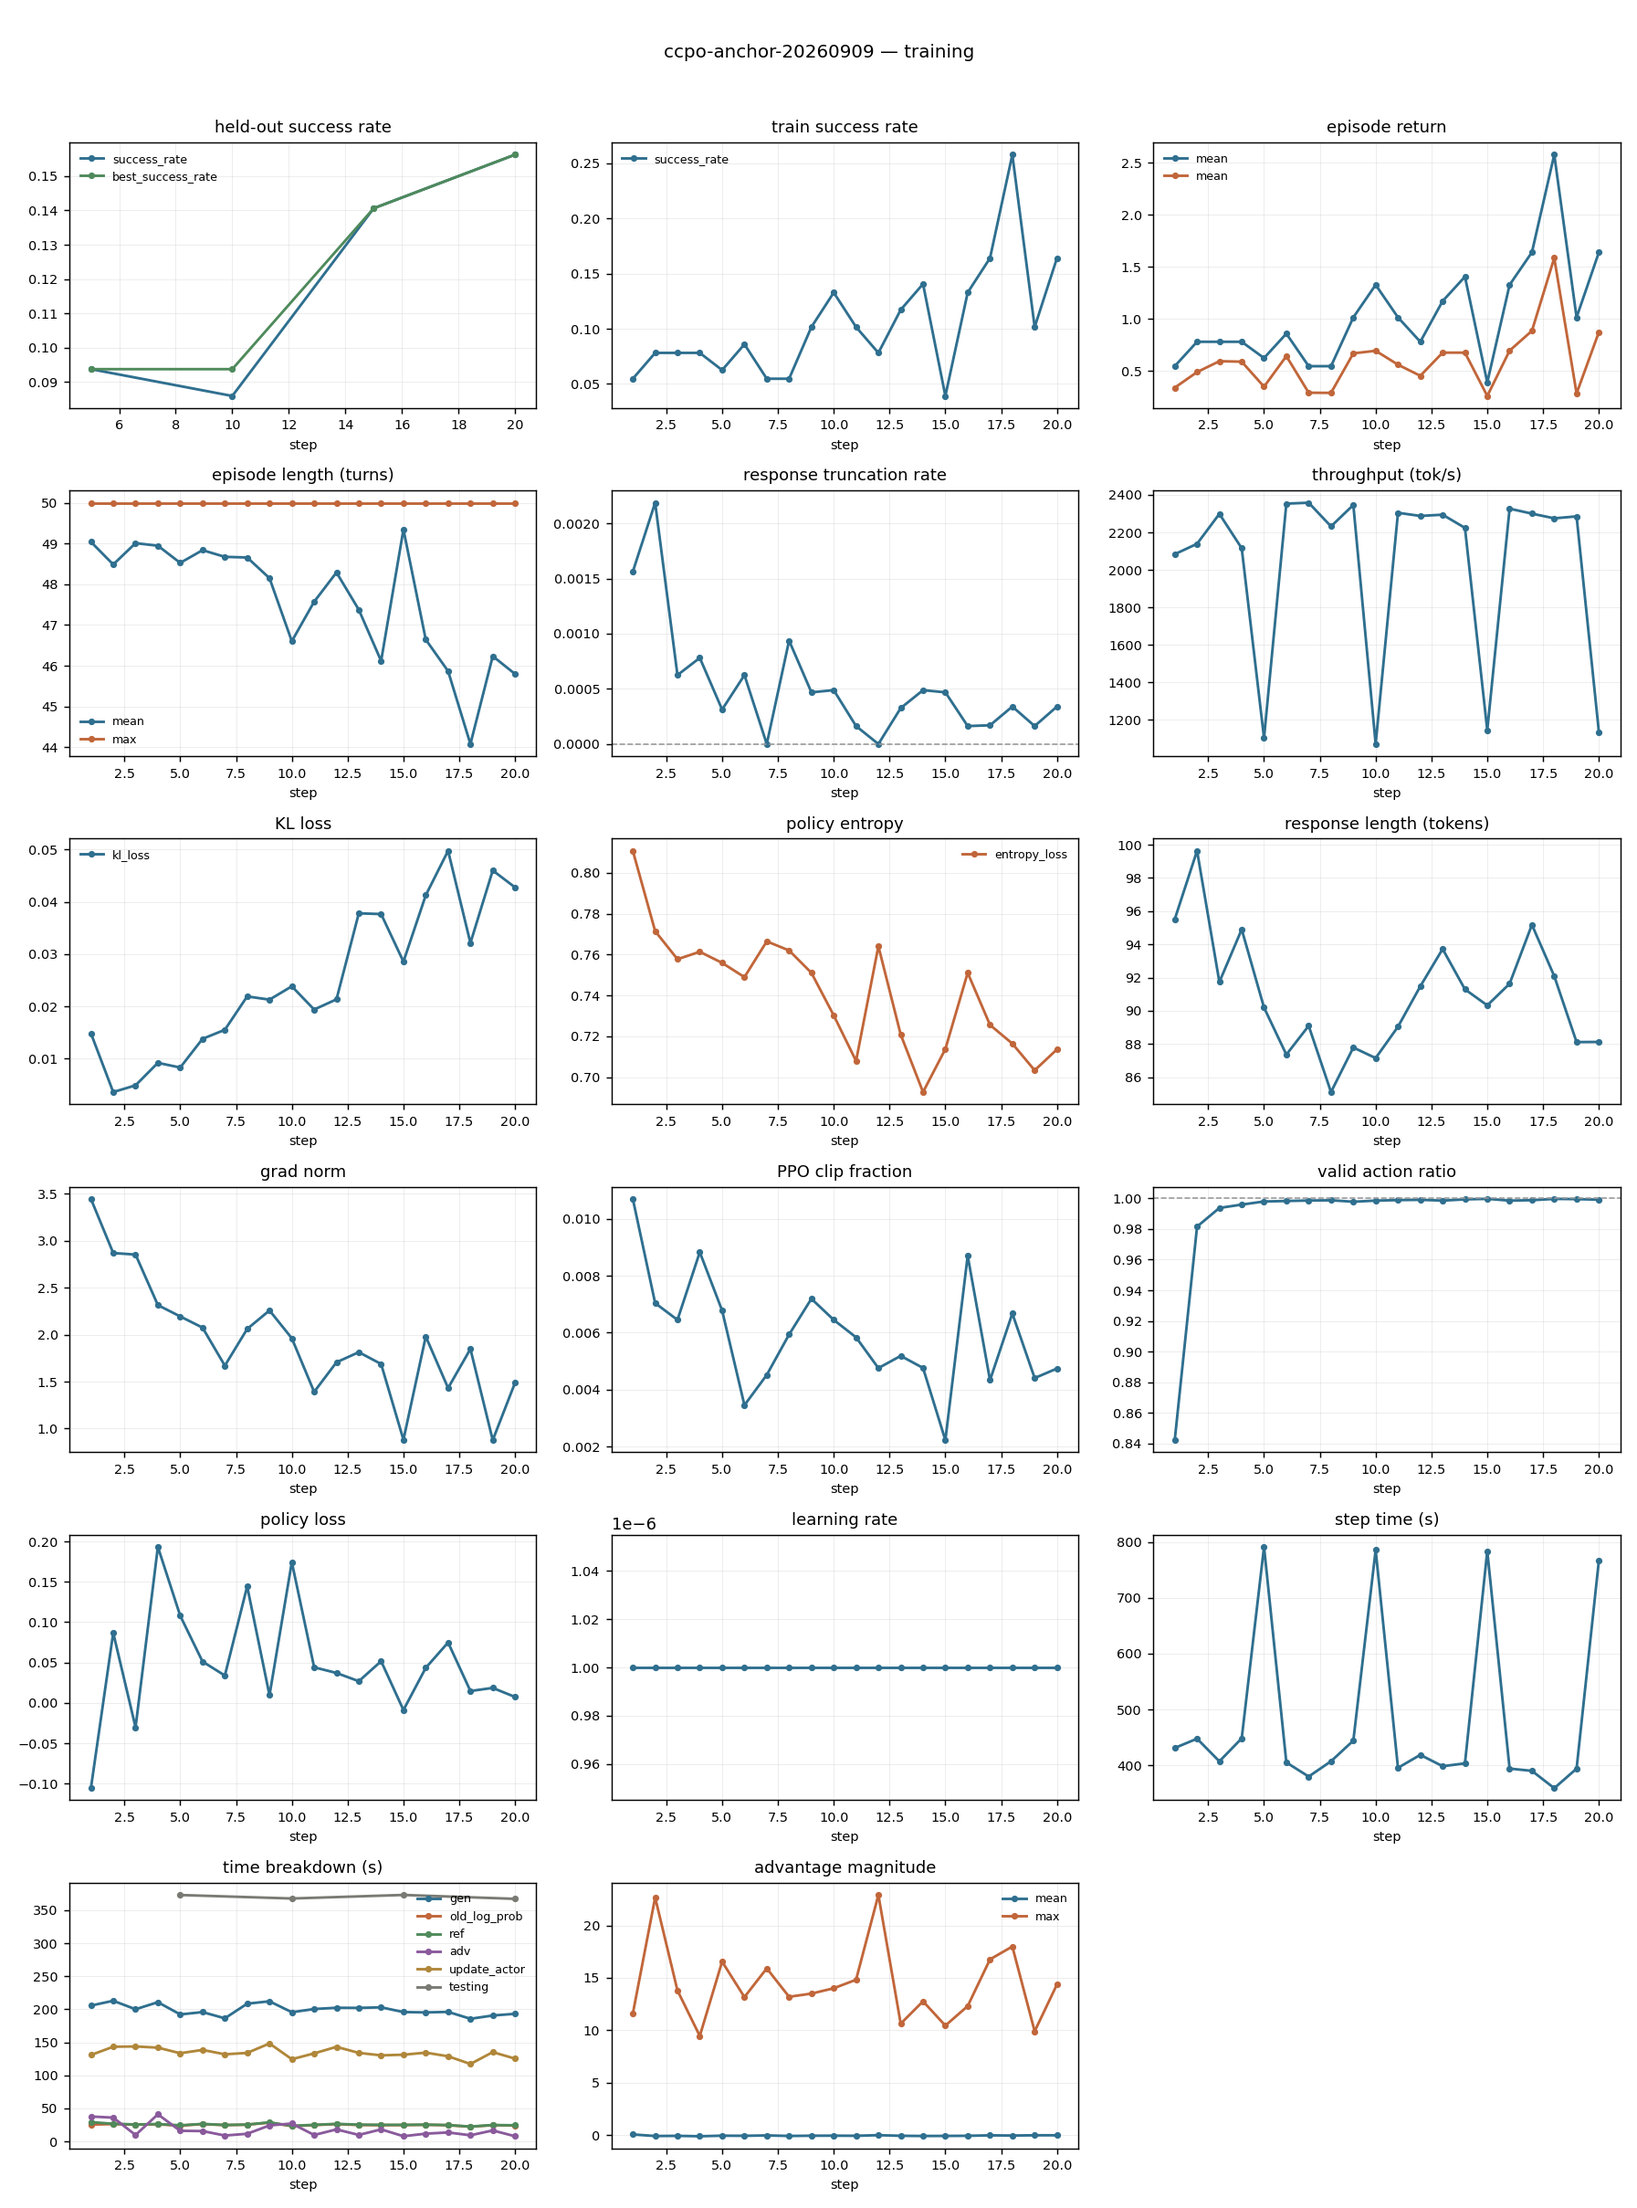
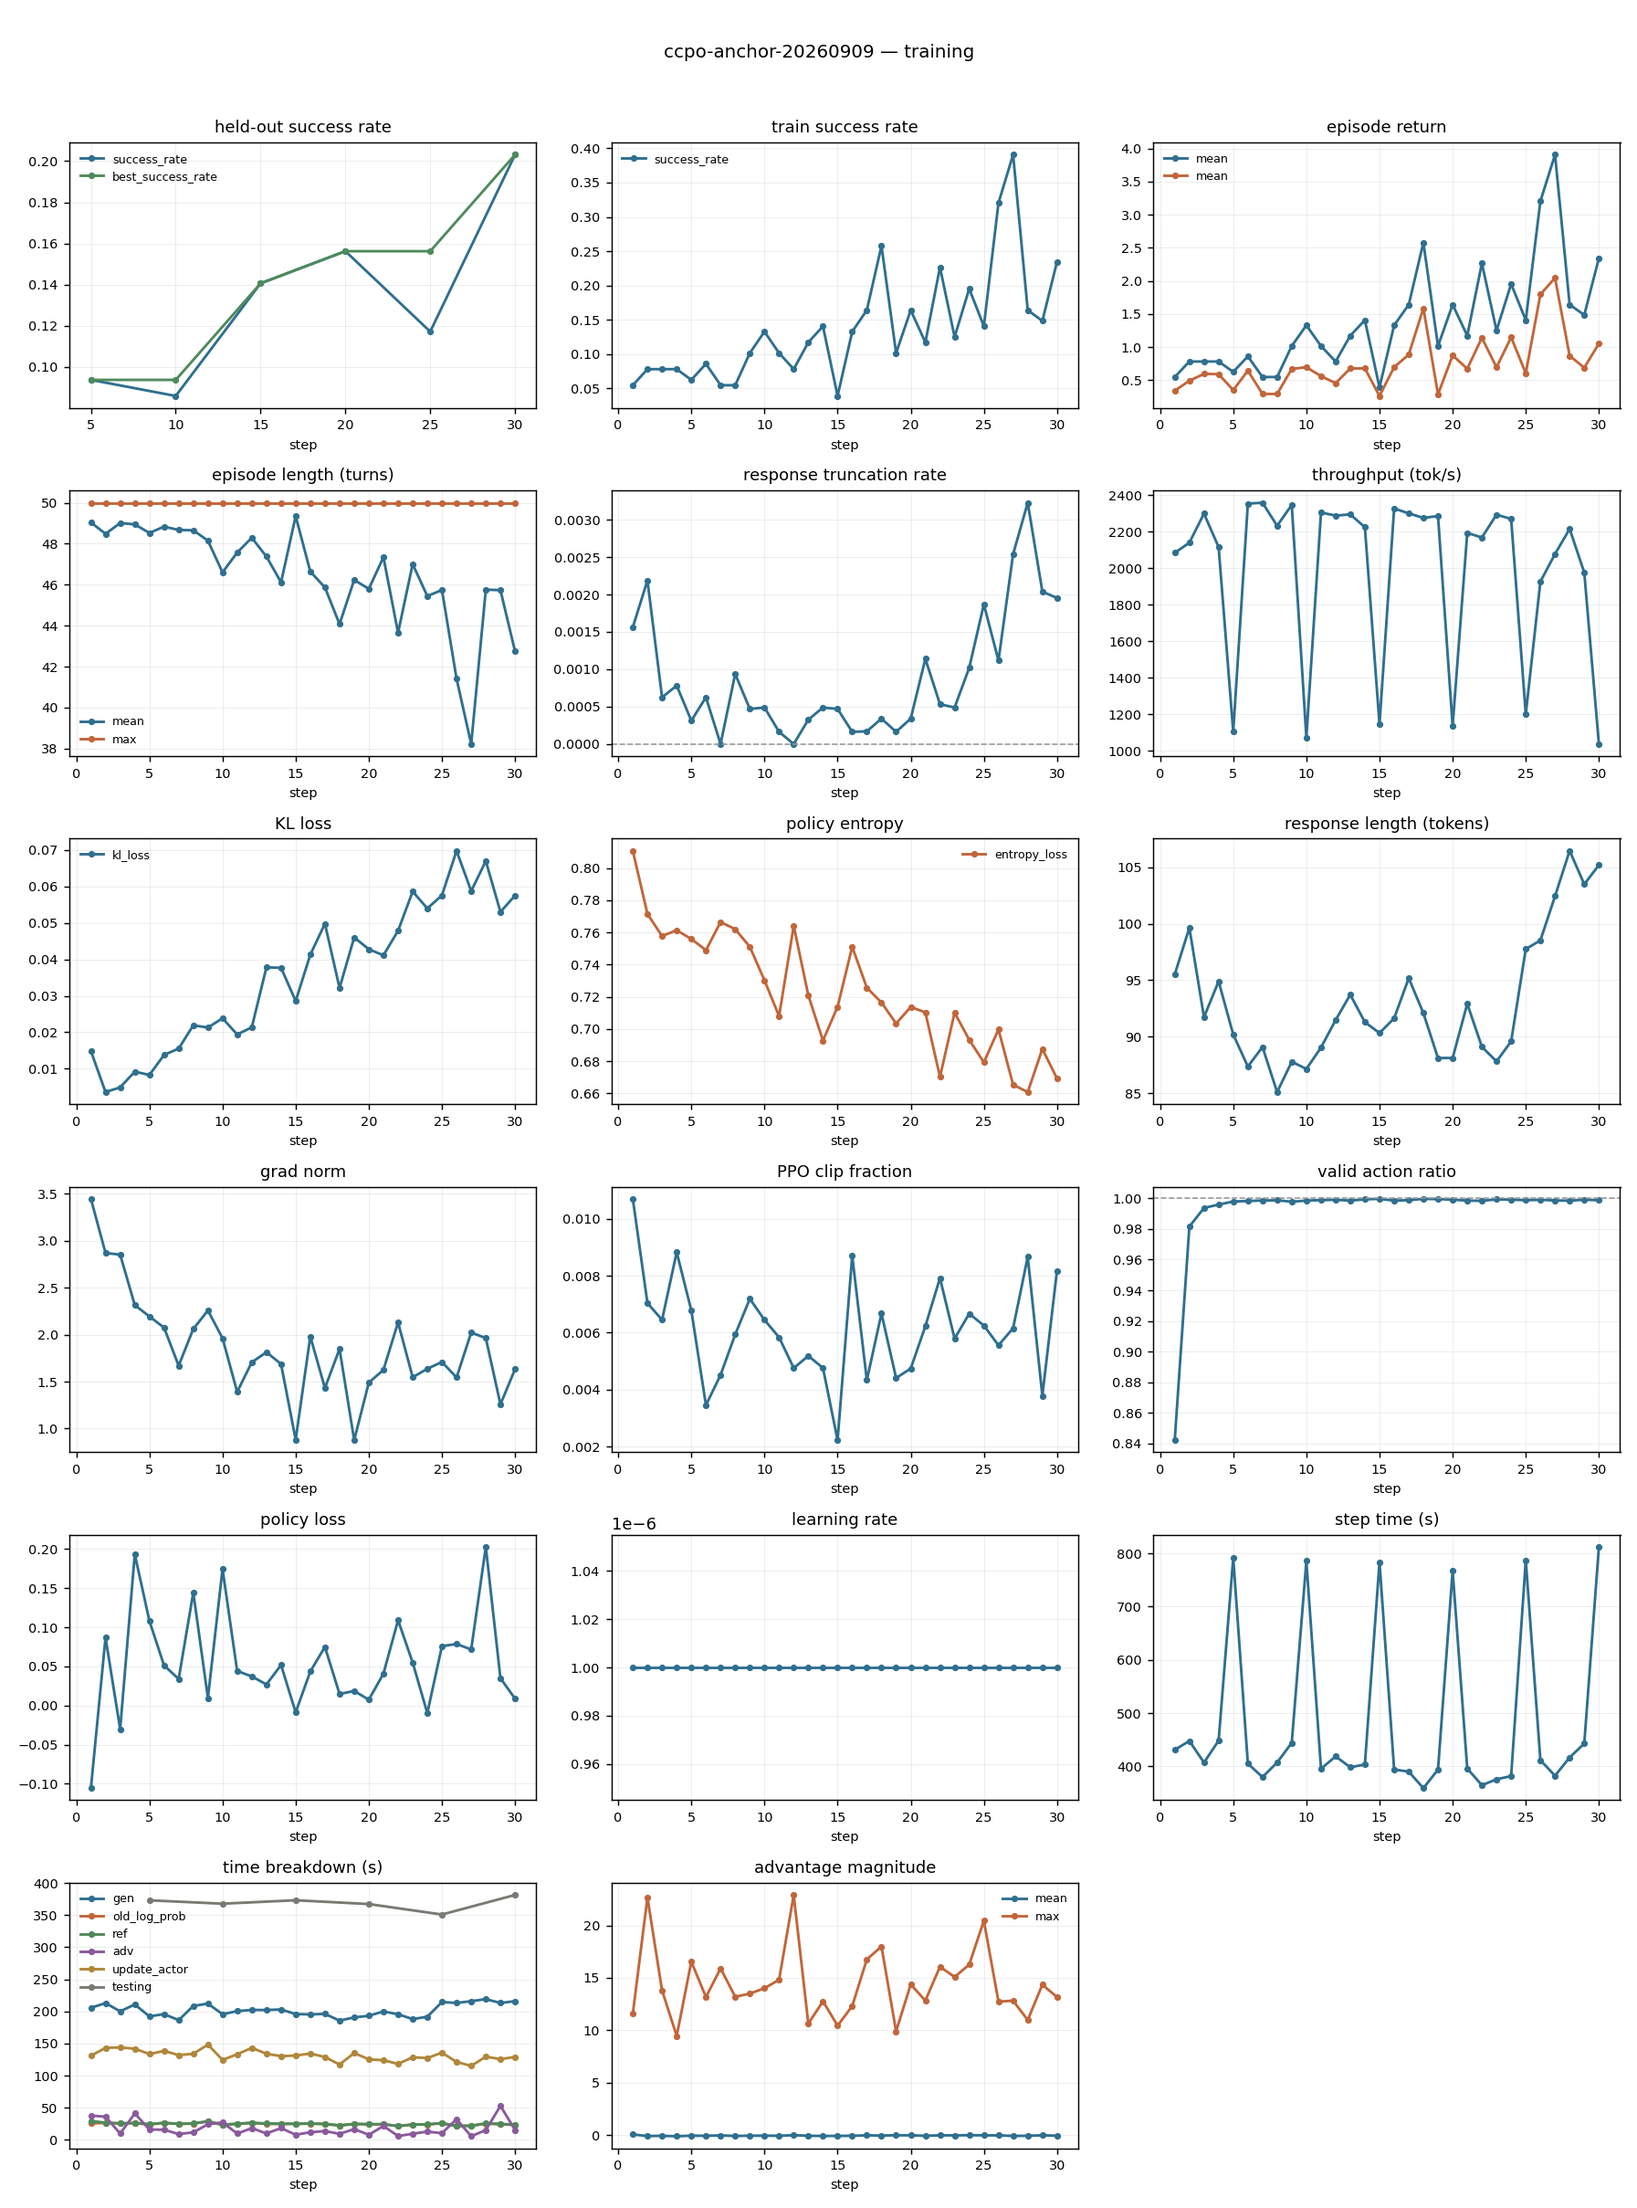
ccpo-anchor step 30: 6/6 negative, reframed as lag versus ceiling
The paired differences are now -0.8, -2.3, -3.1, -5.5, -9.4, -10.2, six of six negative,
so a sign test gives 0.031 and the direction is established.

But the raw gap conflates two different failures. Asking which base step reached each
anchor value shows the arm running about ten steps behind, with the lag growing slowly
from zero. A constant ten-step lag would land near base's step-90 value at step 100,
which is bad but not a refutation; a growing lag is a genuine ceiling and extrapolates to
roughly base's step-67 level.

Fixes the step-50 test accordingly: at or above about 40 means the mechanism is not
harmful, around 23 means a constant lag and merely slower learning, and below about 20
means the lag is growing and the arm is refuted, with the broader conclusion that
credit-assignment structure is not where the remaining points live on this task.

Keeps attached that base's own curve has a step-to-step sd of 7.9 with recovered drops of
-14.8 and -13.3, and that its step-40 value of 22.7 is itself one of those dips, so step
50 should be read against the local trend rather than a single base point.

Claude-Session: https://claude.ai/code/session_01Eywpmpzk7tuN6B1qiJfqQk

diff --git a/experiments/hypothesis.md b/experiments/hypothesis.md
@@ -135,6 +135,45 @@ aff-only would have had resolution at a singleton cost.)
 **Clean ablation confirmed:** step-1 `success_rate` is identical to base at 0.0547, so
 the rollouts are the same and only credit assignment differs.
 
+### STEP-30 — 6/6 negative, but the right question is LAG vs CEILING
+
+```
+paired diff:  5:-0.8  10:-2.3  15:-3.1  20:-5.5  25:-9.4  30:-10.2
+sign test 6/6 negative -> p = 0.031
+```
+
+The direction is now established. But the raw gap conflates two very different failures,
+and the fix is to ask **which base step reached each anchor value**:
+
+| anchor step | value | base step at that level | lag |
+|---|---|---|---|
+| 5 | 9.4 | 5 | 0 |
+| 10 | 8.6 | 5 | 5 |
+| 15 | 14.1 | 15 | 0 |
+| 20 | 15.6 | 15 | 5 |
+| 25 | 11.7 | 15 | 10 |
+| 30 | 20.3 | 20 | 10 |
+
+**The arm is ~10 steps behind, and the lag is growing slowly.** That is a materially
+different diagnosis from "capped lower":
+
+* **constant lag ~10** -> the arm is merely slower and would land near base's step-90
+  value (~75) at step 100. Bad but not a refutation of the mechanism.
+* **growing lag** -> a genuine ceiling. Extrapolating the current rate (10 steps of lag
+  per 30) puts step 100 at base's step-67 level, near 50.
+
+**Step-50 test, fixed now.** Base at 50 is 50.0; its step-40 value is 22.7.
+
+* anchor@50 **>= ~40** -> lag shrinking or small; the mechanism is not harmful
+* anchor@50 **~23** -> constant ~10-step lag; slower, not capped
+* anchor@50 **< ~20** -> lag growing; **refuted**, and the conclusion is that
+  credit-assignment structure is not where the remaining points live on this task
+
+**Caveat that keeps this honest:** base's own curve has a step-to-step sd of 7.9 and
+contains drops of -14.8 and -13.3 that it recovered from, and base's step-40 value (22.7)
+is itself one of those dips. Read step 50 against the local trend, not a single base
+point.
+
 ### STEP-20 RESULT — passes the kill rule, but 4/4 negative
 
 ```
